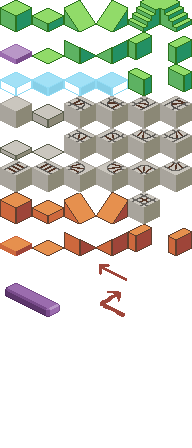
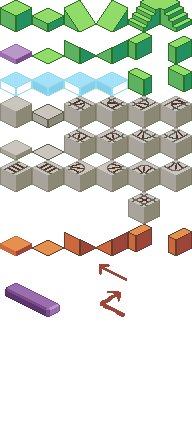
Update look and feel of level and some tiles

diff --git a/scripts/FollowTraincar.cs b/scripts/FollowTraincar.cs
@@ -18,7 +18,7 @@ public partial class FollowTraincar : Traincar
     [Export] public int Separation { get; set; }
 
 	private Tween brakeTween;
-	private Tween unbrakeTween;
+    private Tween unbrakeTween;
 
 	private bool braked = false;
 
@@ -30,11 +30,22 @@ public partial class FollowTraincar : Traincar
 		{ Direction.NegY, "y" }
 	};
 
+    private Dictionary<CargoType, int> animFrameForCargoType = new Dictionary<CargoType, int>()
+    {
+        { CargoType.Purple, 0 },
+        { CargoType.Orange, 1 },
+        { CargoType.Star, 2 },
+        { CargoType.Pink, 3 },
+    };
+
     public override void _Ready()
     {
         base._Ready();
 
         currentPathFollow.Position = tileMapLayer.MapToLocal(InitialCoordinate);
+
+        currentSprite.Frame = animFrameForCargoType[train.CarriedCargo];
+        previousSprite.Frame = animFrameForCargoType[train.CarriedCargo];
     }
 
     public void AcceptPath(PathInfo pathInfo)
@@ -59,6 +70,9 @@ public partial class FollowTraincar : Traincar
     {
         currentSprite.Animation = animationMap[Direction];
         previousSprite.Animation = animationMap[PreviousDirection];
+
+        currentSprite.Frame = animFrameForCargoType[train.CarriedCargo];
+        previousSprite.Frame = animFrameForCargoType[train.CarriedCargo];
 
         if (Head.currentPathFollow.Progress < Separation)
         {

diff --git a/scripts/Root.cs b/scripts/Root.cs
@@ -54,8 +54,6 @@ public partial class Root : Control
 
         platformScene = GD.Load<PackedScene>("res://scenes/Platform.tscn");
         platforms = GetNode<Node2D>("Platforms");
-
-        grid.SetCell(new Vector2I(11, 9), 0, new Vector2I(0, 6));
     }
 
     private void _AssignTrainPath()

diff --git a/scripts/Train.cs b/scripts/Train.cs
@@ -9,5 +9,7 @@ public partial class Train : Node2D
     [Export] public FollowTraincar Middle { get; set; }
     [Export] public FollowTraincar Tail { get; set; }
 
+    public CargoType CarriedCargo = CargoType.Orange;
+
     private TileMapLayer groundLayer;
 }
